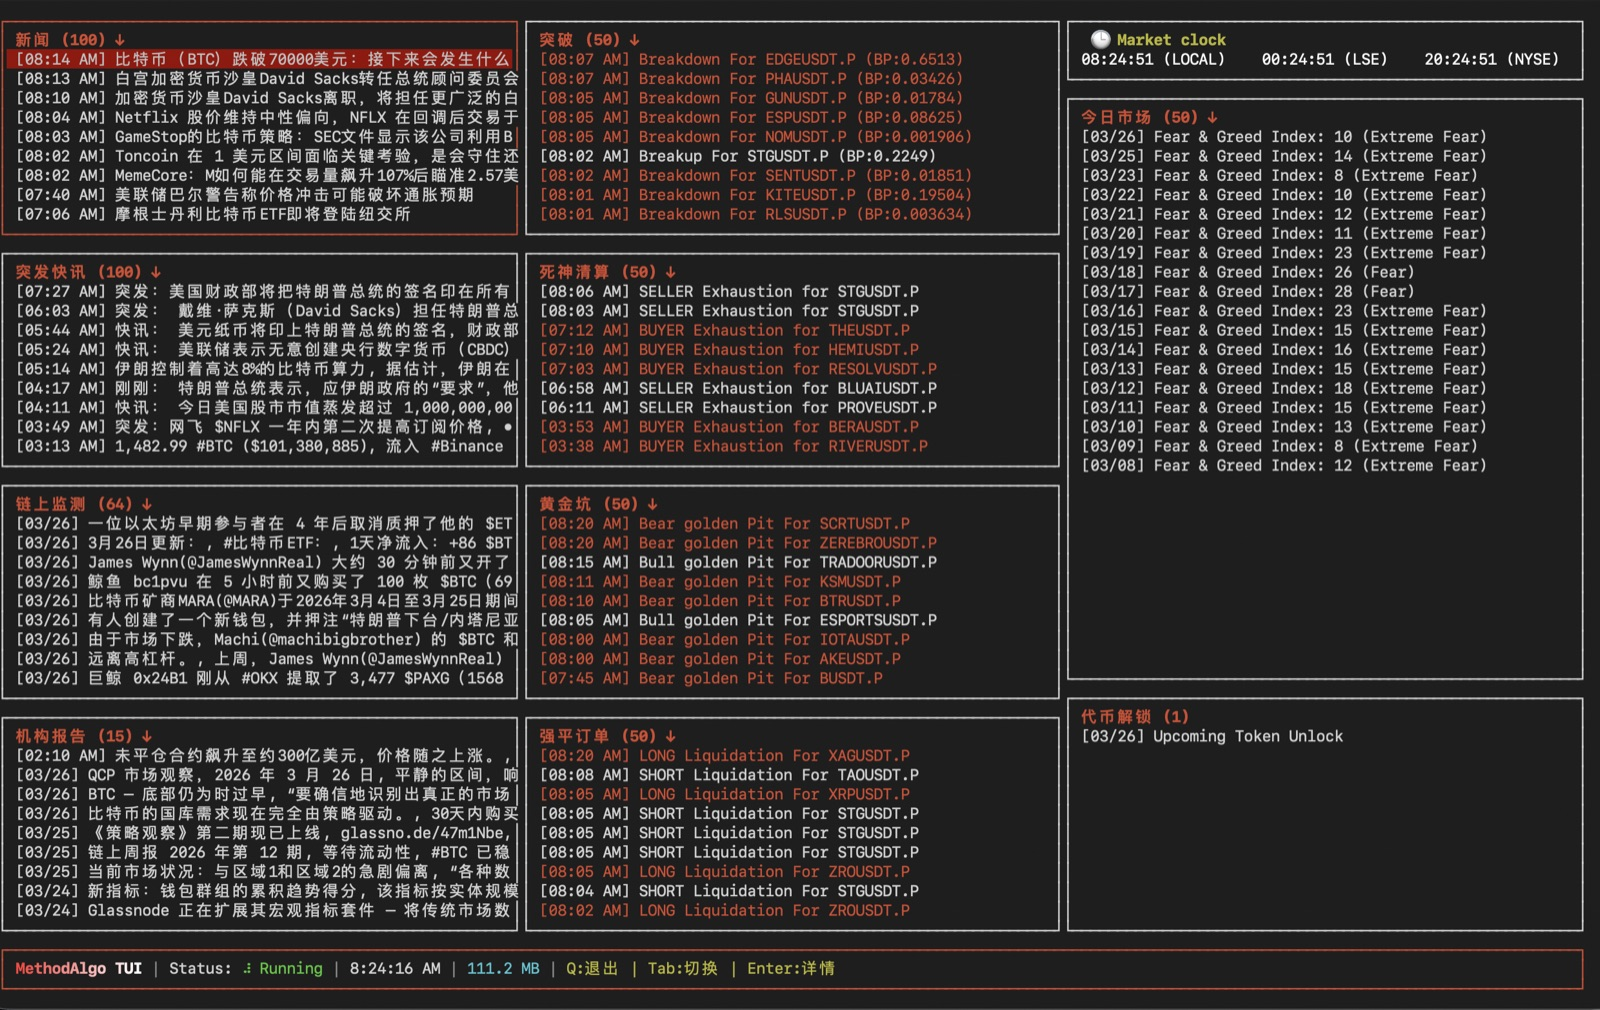
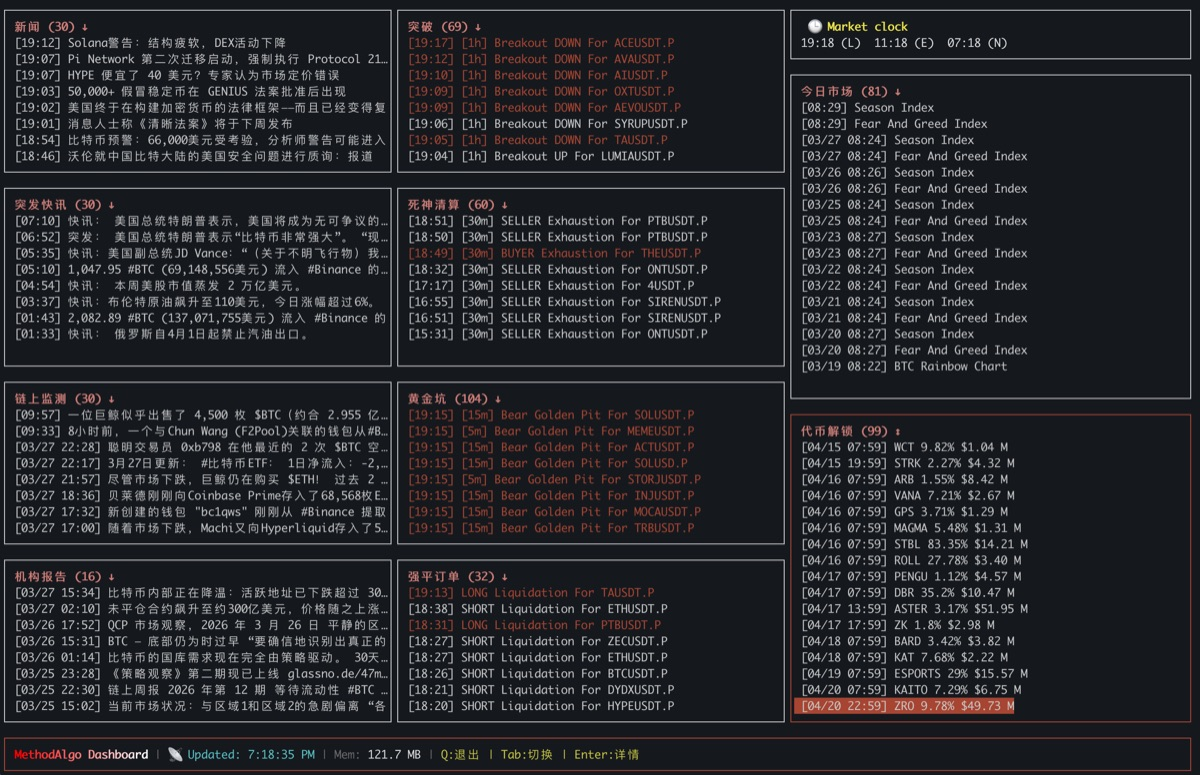
feat: enhance DetailDialog to support token unlock data and formatted timestamps

diff --git a/src/class/Dashboard/DetailDialog.js b/src/class/Dashboard/DetailDialog.js
@@ -2,10 +2,11 @@ import React, { useState } from "react";
 import { Box, Text, useInput } from "ink";
 import chalk from "chalk";
 import { getLang } from "../../utils/i18n.js";
+import { formatTime } from "../../utils/dashboard-utils.js";
 
 const h = React.createElement;
 
-export const DetailDialog = ({ data, category, onClose }) => {
+export const DetailDialog = ({ data, category, type, onClose }) => {
     const [scrollOffset, setScrollOffset] = useState(0);
     const termRows = process.stdout.rows || 40;
     const termCols = process.stdout.columns || 80;
@@ -16,15 +17,27 @@ export const DetailDialog = ({ data, category, onClose }) => {
     
     if (data.analysis) lines.push(chalk.yellow(`Analysis: ${data.analysis}`));
     
-    if (sig.details && Object.keys(sig.details).length > 0) {
+    const addLine = (k, v) => v && lines.push(`${chalk.cyan(k.padEnd(16))}: ${chalk.white(v)}`);
+
+    if (type === "tokenUnlock") {
+        addLine("Market Cap", data.marketCap);
+        addLine("Progress", data.progress);
+        addLine("Countdown", data.countDown || data.unlockTime || data.nextUnlock);
+        addLine("Quantity", data.unlockValue || data.unlockTokenVal || data.unlockQuantity);
+        addLine("Percentage", data.perc ? `${data.perc}%` : null);
+    } else if (sig.details && Object.keys(sig.details).length > 0) {
         Object.entries(sig.details).forEach(([k, v]) => {
             if (!v) return;
             lines.push(`${chalk.cyan(k.padEnd(16))}: ${chalk.white(v)}`);
         });
     }
 
+    // ── Image URL ──────────────────────
+    const imgUrl = data.imageUrl || data.fileUrl || data.image_url;
+    if (imgUrl) addLine("Image URL", imgUrl);
+
     const lang = getLang();
-    const description = (sig.description || data.description?.[lang] || data.description?.en || data.description || "");
+    const description = (sig.description || data.description?.[lang] || data.description?.en || data.description || data.content || "");
     if (description) lines.push(...description.toString().split("\n").map(l => l.trim()));
 
     const HEADER = 8;
@@ -49,7 +62,7 @@ export const DetailDialog = ({ data, category, onClose }) => {
         h(Text, { color: "yellow", bold: true, wrap: "wrap" }, title),
         h(Box, { height: 1 }),
         h(Box, { gap: 2 },
-            h(Text, null, h(Text, { color: "gray" }, "Time: "), h(Text, { color: "cyan" }, (data.publish_date || data.timestamp || "N/A"))),
+            h(Text, null, h(Text, { color: "gray" }, "Time: "), h(Text, { color: "cyan" }, formatTime(data.publish_date || data.timestamp || "N/A"))),
         ),
         data.url ? h(Text, { color: "gray", dimColor: true, wrap: "truncate" }, `URL: ${data.url}`) : null,
         

diff --git a/src/commands/dashboard.js b/src/commands/dashboard.js
@@ -55,7 +55,7 @@ const Dashboard = () => {
             breakout: t("LABEL_BREAKOUT"), exhaustion: t("LABEL_EXHAUSTION"), goldenPit: t("LABEL_GOLDEN_PIT"), liquidation: t("LABEL_LIQUIDATION"),
             marketToday: t("LABEL_MARKET_TODAY"), tokenUnlock: t("LABEL_TOKEN_UNLOCK")
         };
-        setDialog({ data: item, category: labels[type] });
+        setDialog({ data: item, category: labels[type], type: type });
     };
 
     if (loading) return h(LoadingScreen);
